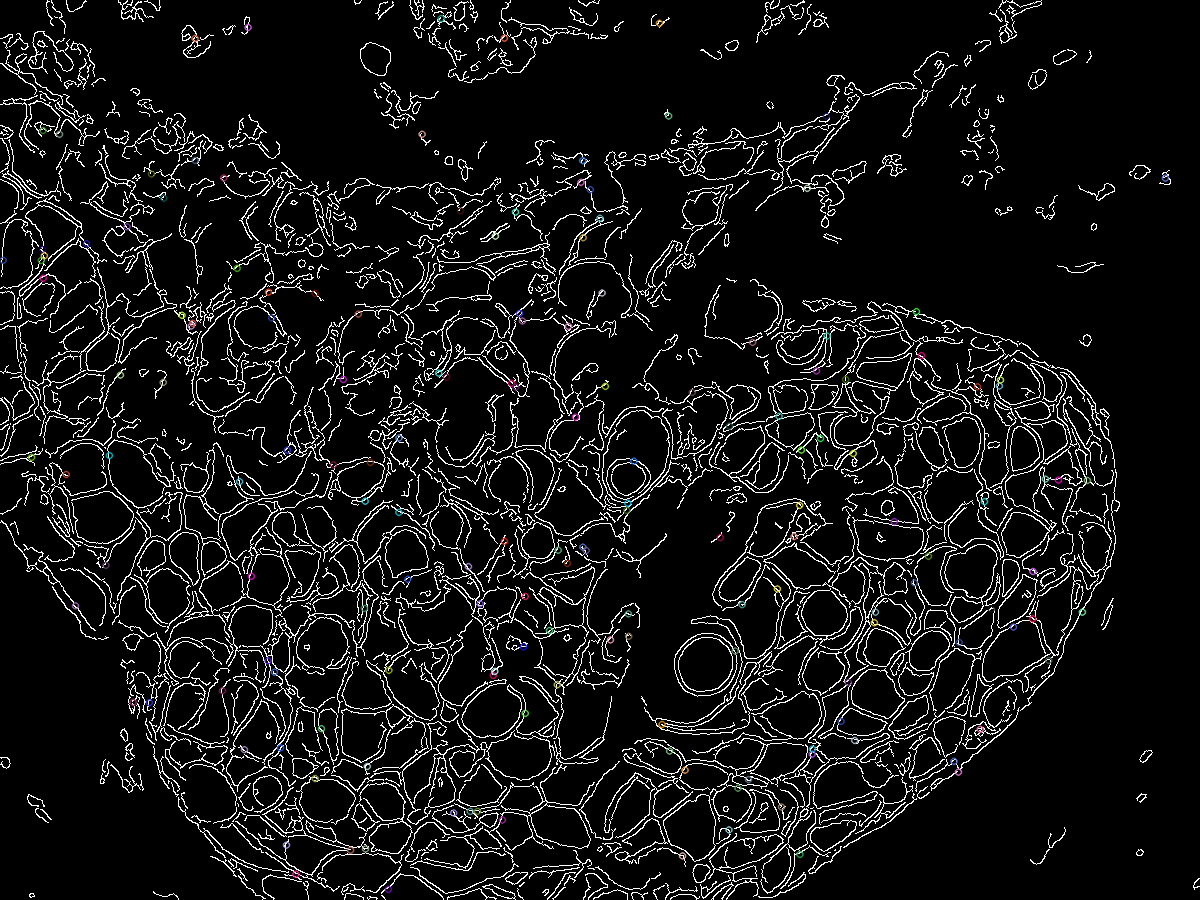
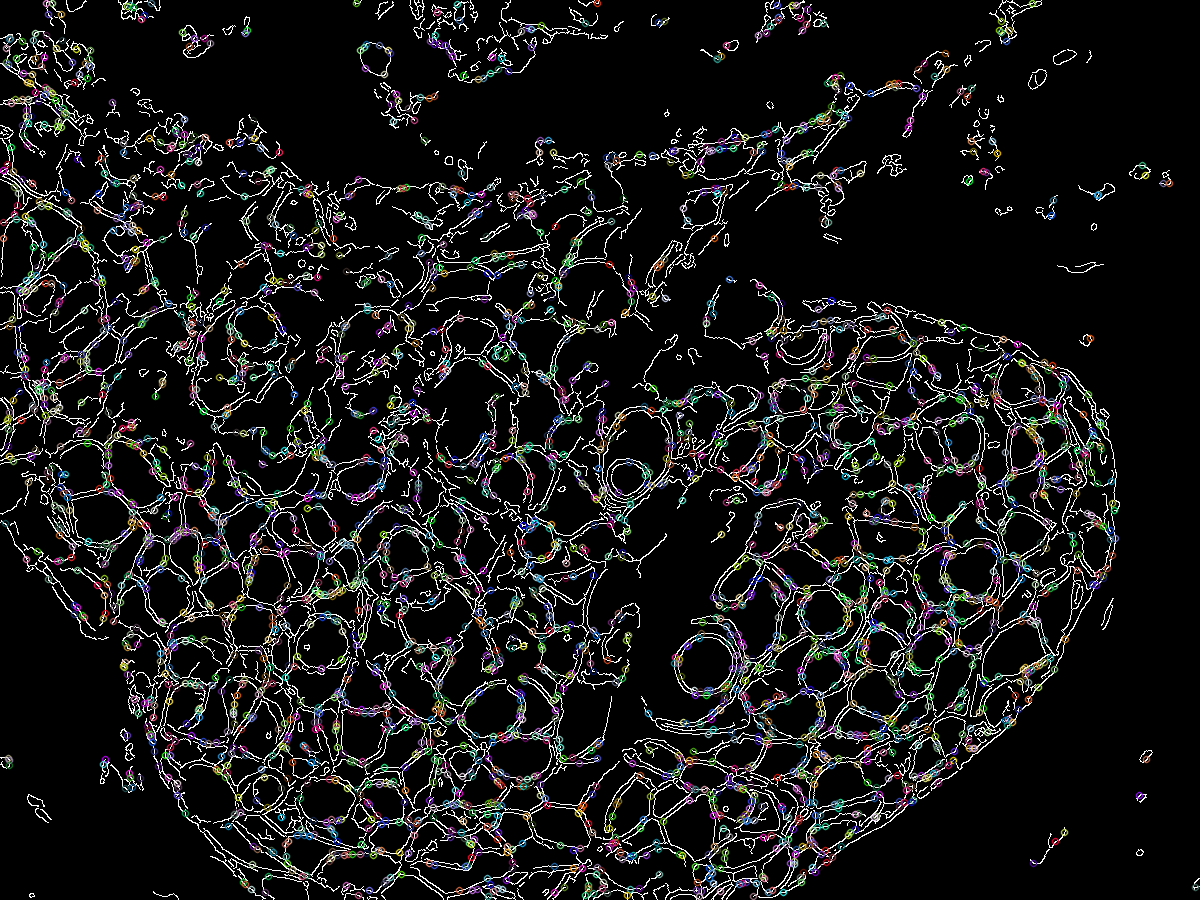
Finishing touches

diff --git a/src/view/GUI.java b/src/view/GUI.java
@@ -17,7 +17,6 @@ import java.util.ArrayList;
 import java.util.List;
 import java.util.Set;
 
-@SuppressWarnings("SpellCheckingInspection")
 public class GUI extends JFrame {
     public final static int BUTTON_PANEL_HEIGHT = 50;
     public static int WIDTH = 600;
@@ -92,34 +91,28 @@ public class GUI extends JFrame {
         setVisible(true);
     }
 
-    private void showCycles() {
-        // Create cycles window
-        JFrame listFrame = new JFrame("Cycle list");
-        listFrame.setPreferredSize(new Dimension(500, 500));
-        listFrame.setDefaultCloseOperation(JFrame.DISPOSE_ON_CLOSE);
-        listFrame.setLocationRelativeTo(null);
-
-        // Create list model
-        DefaultListModel<String> model = new DefaultListModel<>();
-        model.addElement("Found " + cycles.size() + " cycles");
-        for (List<Point> list : cycles) {
-            StringBuilder builder = new StringBuilder();
-            for (Point point : list) {
-                builder.append(point.toString());
-                builder.append(", ");
-            }
-            builder.setCharAt(builder.length() - 2, ' ');
-            model.addElement(builder.toString());
+    private void loadBackgroundImage() {
+        try {
+            File imageFile = new File("img/input.png");
+            backgroundImage = ImageIO.read(imageFile);
+        } catch (IOException e) {
+            e.printStackTrace();
         }
+    }
 
-        // Adding components to window
-        JList<String> list = new JList<>(model);
-        JScrollPane scrollPane = new JScrollPane(list);
-        listFrame.getContentPane().add(scrollPane);
+    private void loadEdgesImage() {
+        try {
+            File imageFile = new File("img/edges.png");
+            backgroundImage = ImageIO.read(imageFile);
+        } catch (IOException e) {
+            e.printStackTrace();
+        }
+    }
 
-        // Showing the window
-        listFrame.pack();
-        listFrame.setVisible(true);
+    private void generateGraph() {
+        this.vertices = ImageProcessing.generateKeypointsList();
+        this.graph = TissueGraph.generateRNGraph(vertices);
+        this.cycles = TissueGraph.getCycles(graph);
     }
 
     private void drawPlaneGraph(Graphics g) {
@@ -151,6 +144,50 @@ public class GUI extends JFrame {
         }
     }
 
+    private void showCycles() {
+        // Create cycles window
+        JFrame listFrame = new JFrame("Cycle list");
+        listFrame.setPreferredSize(new Dimension(500, 500));
+        listFrame.setDefaultCloseOperation(JFrame.DISPOSE_ON_CLOSE);
+        listFrame.setLocationRelativeTo(null);
+
+        // Create list model
+        DefaultListModel<String> model = new DefaultListModel<>();
+        model.addElement("Found " + cycles.size() + " cycles");
+        for (List<Point> list : cycles) {
+            StringBuilder builder = new StringBuilder();
+            for (Point point : list) {
+                builder.append(point.toString());
+                builder.append(", ");
+            }
+            builder.setCharAt(builder.length() - 2, ' ');
+            model.addElement(builder.toString());
+        }
+
+        // Adding components to window
+        JList<String> list = new JList<>(model);
+        JScrollPane scrollPane = new JScrollPane(list);
+        listFrame.getContentPane().add(scrollPane);
+
+        // Showing the window
+        listFrame.pack();
+        listFrame.setVisible(true);
+    }
+
+    private void convertCyclesToPolygons() {
+        List<Polygon> polygons = new ArrayList<>();
+
+        for (List<Point> cycle : cycles) {
+            Polygon polygon = new Polygon();
+            for (Point point : cycle) polygon.addPoint(point.x(), point.y());
+            if (polygon.getBounds().getWidth() * polygon.getBounds().getHeight() >= Main.MIN_CYCLE_AREA) {
+                polygons.add(polygon);
+            }
+        }
+
+        this.polygons = polygons;
+    }
+
     private void drawCycle(Graphics g) {
         // Polygon color
         g.setColor(new Color(66, 117, 245, 150));
@@ -159,45 +196,5 @@ public class GUI extends JFrame {
             g.drawPolygon(polygon);
             g.fillPolygon(polygon);
         }
-    }
-
-    private void loadBackgroundImage() {
-        try {
-            File imageFile = new File("img/input.png");
-            backgroundImage = ImageIO.read(imageFile);
-        } catch (IOException e) {
-            e.printStackTrace();
-        }
-    }
-
-    private void loadEdgesImage() {
-        try {
-            File imageFile = new File("img/edges.png");
-            backgroundImage = ImageIO.read(imageFile);
-        } catch (IOException e) {
-            e.printStackTrace();
-        }
-    }
-
-    private void generateGraph() {
-        this.vertices = ImageProcessing.generateKeypointsList();
-        this.graph = TissueGraph.generateRNGraph(vertices);
-        this.cycles = TissueGraph.getCycles(graph);
-    }
-
-    private void convertCyclesToPolygons() {
-        List<Polygon> polygons = new ArrayList<>();
-
-        for (List<Point> cycle : cycles) {
-            if (cycle.size() >= Main.MIN_CYCLE_LENGTH && cycle.size() <= Main.MAX_CYCLE_LENGTH) {
-                Polygon polygon = new Polygon();
-                for (Point point : cycle) {
-                    polygon.addPoint(point.x(), point.y());
-                }
-                polygons.add(polygon);
-            }
-        }
-
-        this.polygons = polygons;
     }
 }

diff --git a/src/graphs/TissueGraph.java b/src/graphs/TissueGraph.java
@@ -1,7 +1,6 @@
 package graphs;
 
 import org.jgrapht.Graph;
-import org.jgrapht.alg.cycle.PatonCycleBase;
 import org.jgrapht.graph.DefaultEdge;
 import org.jgrapht.graph.SimpleGraph;
 
@@ -40,40 +39,6 @@ public class TissueGraph {
         return graph;
     }
 
-    @SuppressWarnings("unused")
-    public static List<List<Point>> getCyclesPaton(Graph<Point, DefaultEdge> graph) {
-        Set<List<Point>> allCycles = new HashSet<>();
-        PatonCycleBase<Point, DefaultEdge> cycleBase = new PatonCycleBase<>(graph);
-
-        cycleBase.getCycleBasis().getCycles().forEach(cycle -> {
-            List<Point> currentCycle = new ArrayList<>();
-            DefaultEdge startEdge = cycle.get(0);
-            DefaultEdge nextEdge = cycle.get(1);
-            cycle.forEach(defaultEdge -> {
-                if (defaultEdge.equals(startEdge)) {
-                    if (graph.getEdgeSource(nextEdge).equals(graph.getEdgeSource(startEdge)) || graph.getEdgeTarget(nextEdge).equals(graph.getEdgeSource(startEdge))) {
-                        currentCycle.add(graph.getEdgeSource(startEdge));
-                    } else {
-                        currentCycle.add(graph.getEdgeTarget(startEdge));
-                    }
-                } else {
-                    if (currentCycle.contains(graph.getEdgeSource(defaultEdge))) {
-                        currentCycle.add(graph.getEdgeTarget(defaultEdge));
-                    } else {
-                        currentCycle.add(graph.getEdgeSource(defaultEdge));
-                    }
-                }
-
-            });
-            allCycles.add(currentCycle);
-        });
-
-        List<List<Point>> cycleList = new ArrayList<>(allCycles.stream().toList());
-        cycleList.sort(Comparator.comparingInt(List::size));
-
-        return cycleList;
-    }
-
     public static List<List<Point>> getCycles(Graph<Point, DefaultEdge> graph) {
         Set<List<Point>> allCycles = new HashSet<>();
         List<DefaultEdge> edges = new ArrayList<>(graph.edgeSet());
@@ -96,15 +61,20 @@ public class TissueGraph {
             allCycles.add(getClockwiseCycle(clockwiseGraph, graph.getEdgeTarget(edge), graph.getEdgeSource(edge)));
         }
 
-        // Remove cycles with less than 3 points
+        // Remove cycles with less than 3 points and invalid cycles
         allCycles.removeIf(Objects::isNull);
         allCycles.removeIf(cycle -> cycle.size() < 3);
 
         // Remove cycles permutations
         List<List<Point>> allCyclesList = new ArrayList<>(allCycles);
+
         for (int i = 0; i < allCyclesList.size(); i++) {
-            for (int j = allCyclesList.size() - 1; j >= 0; j--) {
-                if (i != j && new HashSet<>(allCyclesList.get(i)).containsAll(allCyclesList.get(j))) {
+            List<Point> cycleI = allCyclesList.get(i);
+
+            for (int j = allCyclesList.size() - 1; j > i; j--) {
+                List<Point> cycleJ = allCyclesList.get(j);
+
+                if (new HashSet<>(cycleI).containsAll(cycleJ)) {
                     allCyclesList.remove(j);
                 }
             }

diff --git a/src/imageProcessing/ImageProcessing.java b/src/imageProcessing/ImageProcessing.java
@@ -6,9 +6,7 @@ import org.opencv.core.Core;
 import org.opencv.core.KeyPoint;
 import org.opencv.core.Mat;
 import org.opencv.core.MatOfKeyPoint;
-import org.opencv.features2d.Feature2D;
-import org.opencv.features2d.Features2d;
-import org.opencv.features2d.SIFT;
+import org.opencv.features2d.*;
 import org.opencv.imgcodecs.Imgcodecs;
 import org.opencv.imgproc.Imgproc;
 
@@ -45,7 +43,7 @@ public class ImageProcessing {
         // ------------------------ KEYPOINTS DETECTION ------------------------
 
         // Create a detector
-        Feature2D detector = SIFT.create(0, 3, 0.01, 10, 1.6);
+        Feature2D detector = AgastFeatureDetector.create();
 
         // Detect keypoints in the image
         MatOfKeyPoint allKeypoints = new MatOfKeyPoint();

diff --git a/src/main/Main.java b/src/main/Main.java
@@ -9,17 +9,7 @@ public class Main {
     // PARAMETERS
     public static final int CANNY_THRESHOLD1 = 60;
     public static final int CANNY_THRESHOLD2 = 150;
-    public static final int MIN_CYCLE_LENGTH = 1;
-    public static final int MAX_CYCLE_LENGTH = 100;
-
-    // MAX_KEYPOINTS set on 10_000 does not reduce number of generated points
-    // Canny parameters may change with different images
-
-    // Sample parameters for respectively POINT_SPACING, MIN_CYCLE_LENGTH, MAX_CYCLE_LENGTH
-    // 3, 25, 70
-    // 8, 20, 40
-    // 11, 10, 35
-    // 15, 7, 30
+    public static final int MIN_CYCLE_AREA = 1000;
 
     public static void main(String[] args) {
         SwingUtilities.invokeLater(GUI::new);

diff --git a/src/graphs/Point.java b/src/graphs/Point.java
@@ -6,10 +6,6 @@ public record Point(int x, int y) {
         return "(" + x + ", " + y + ')';
     }
 
-    public double distanceTo(Point other) {
-        return Math.sqrt(Math.pow(other.x() - x(), 2) + Math.pow(other.y() - y(), 2));
-    }
-
     @Override
     public boolean equals(Object o) {
         if (this == o) return true;
